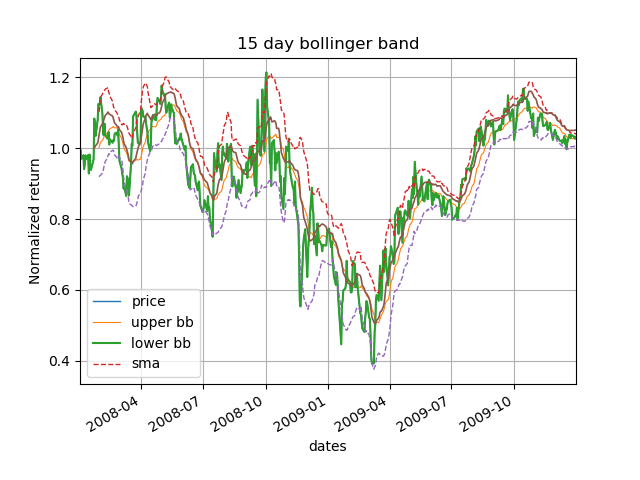
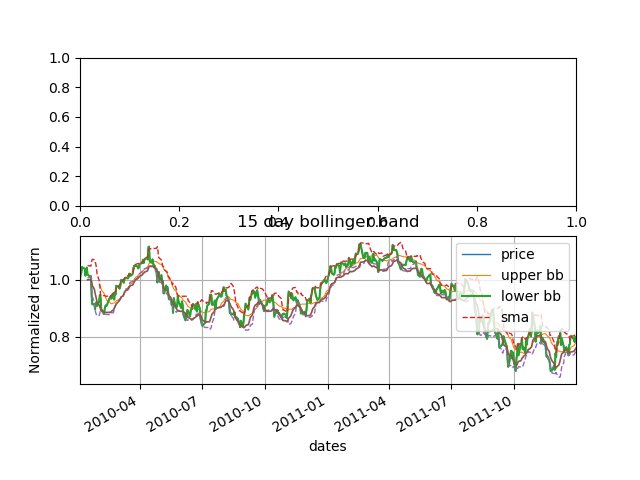
manual strategy seems to be getting alright performance

diff --git a/strategy_evaluation/ManualStrategy.py b/strategy_evaluation/ManualStrategy.py
@@ -11,7 +11,7 @@ class ManualStrategy(object):
    def testPolicy(self, symbol, sd,ed,sv):
       dates = pd.date_range(sd, ed)
       trades = ut.get_data([symbol], dates)
-      
+
       # forward fill and backfill data
       trades.fillna(method='ffill', inplace=True)
       trades.fillna(method='bfill', inplace=True)
@@ -19,42 +19,52 @@ class ManualStrategy(object):
       # only keep data for symbols in our portfolio
       trades.drop(columns=["SPY"], inplace=True)
       prices = trades.copy()
-      # might use this trades df later
-      #trades[:] = 0.0
-      #trades.iloc[0][0] = 1000
       df_indicators = getIndicators(prices, sd, ed)
-      df_buy = pd.DataFrame(index=df_indicators.index)
-      df_sell = df_buy.copy()
-      # set up buy signals
-      df_buy['sma'] = np.where(df_indicators['sma'] < df_indicators['price'],1,0)
-      df_buy['bb'] = np.where(df_indicators['price'] <= df_indicators['lower band'],1,0)
-      df_buy['macd'] = np.where(df_indicators['macd'] > df_indicators['macd_signal'],1,0)
-      df_buy['momentum'] = np.where(df_indicators['momentum'] > 0,1,0)
-      # set up sell signals
-      df_sell['sma'] = np.where(df_indicators['sma'] > df_indicators['price'],1,0) 
-      df_sell['bb'] = np.where(df_indicators['price'] >= df_indicators['upper band'],1,0)
-      df_sell['macd'] = np.where(df_indicators['macd'] < df_indicators['macd_signal'],1,0)
-      df_sell['momentum'] = np.where(df_indicators['momentum'] < 0,1,0)
-      # after getting indicators we have to standardize and normalize them
+      df_indicators['macd_diff'] = df_indicators['macd'] - df_indicators['macd_signal']
+      df_indicators['macd_diff_shift'] = df_indicators['macd_diff'].shift(1) # get crossover
+      df_signals = pd.DataFrame(index=df_indicators.index)
+      df_signals['bbp'] = [1 if x <= -0.03 else -1 if x >= 1.03 else 0 for x in df_indicators['bbp']]
+      df_signals['sma_ratio'] = [1 if x <= 0.955 else -1 if x >= 1.055 else 0 for x in df_indicators['price_sma_ratio']]
+      df_signals['macd'] = 0
+
+      for index,row in df_indicators.iterrows():
+         if row['macd_diff'] > 0.0 and row['macd_diff_shift'] < 0.0:
+            df_signals.at[index,'macd'] = 1
+         elif row['macd_diff'] < 0.0 and row['macd_diff_shift'] > 0.0:
+            df_signals.at[index,'macd'] = -1
+
       df_trades = pd.DataFrame(index=df_indicators.index)
       df_trades[trades.columns[0]] = 0
       holding = 0
       for i in df_trades.index:
          if holding == 0:
-            if df_buy.ix[i,'bb'] == 1 and  df_buy.ix[i,'momentum'] > 0 or  df_buy.ix[i,'macd'] == 1:
-               print('here')
+            if (df_signals.ix[i,'bbp'] > 0) | (df_signals.ix[i,'macd'] > 0) | (df_signals.ix[i,'sma_ratio'] > 0) :
                df_trades.ix[i,0] = 1000
                holding = 1000
-            elif df_sell.ix[i,'bb'] == 1 and  df_sell.ix[i,'momentum'] > 0 or  df_sell.ix[i,'macd'] == 1:
+            elif (df_signals.ix[i,'bbp'] < 0) | (df_signals.ix[i,'macd'] < 0) | (df_signals.ix[i,'sma_ratio'] < 0):
                df_trades.ix[i,0] = -1000
                holding = -1000
          elif holding == 1000:
-            if df_sell.ix[i,'bb'] == 1 and  df_sell.ix[i,'momentum'] > 0 or  df_sell.ix[i,'macd'] == 1:
+            if (df_signals.ix[i,'bbp'] < 0) | ((df_signals.ix[i,'macd'] < 0) | (df_signals.ix[i,'sma_ratio'] < 0)):
                df_trades.ix[i,0] = -2000
                holding = -1000
          elif holding == -1000:
-            if df_buy.ix[i,'bb'] == 1 and  df_buy.ix[i,'momentum'] > 0 or  df_buy.ix[i,'macd'] == 1:
+            if (df_signals.ix[i,'bbp'] > 0) | ((df_signals.ix[i,'macd'] > 0) | (df_signals.ix[i,'sma_ratio'] > 0)):
                df_trades.ix[i,0] = 2000
                holding = 1000
-
       return df_trades
+
+   def benchmark(self, symbol="JPM", sd=dt.datetime(2008,1,1), ed=dt.datetime(2009,12,31), sv=100000):
+      # Read in adjusted closing prices for given symbols, date range
+      dates = pd.date_range(sd, ed)
+      trades = ut.get_data([symbol], dates)
+      # forward fill and backfill data
+      trades.fillna(method='ffill', inplace=True)
+      trades.fillna(method='bfill', inplace=True)
+      # only keep data for symbols in our portfolio
+      trades.drop(columns=["SPY"], inplace=True)
+      prices = trades.copy()
+      trades[:] = 0.0
+      # benchmark only has 1000 shares held long
+      trades.iloc[0][0] = 1000
+      return trades

diff --git a/strategy_evaluation/testproject.py b/strategy_evaluation/testproject.py
@@ -83,10 +83,42 @@ if __name__ == "__main__":
    ms = ManualStrategy()
    start_date = dt.datetime(2008, 1, 1)
    end_date = dt.datetime(2009,12,31)
+   
    manual_strategy_trades = ms.testPolicy(symbol = "JPM", sd=start_date , ed=end_date , sv = 100000)
+   benchmark_in_sample_manual = ms.benchmark(symbol = "JPM", sd=start_date , ed=end_date , sv = 100000)
    portVals = compute_portvals(manual_strategy_trades, start_val=100000)
+   benchmark_in_sample_portvals = compute_portvals(benchmark_in_sample_manual, start_val=100000)
+   
    # get data and print it for optimal trades and benchmark trades
    cum_ret, avg_daily_ret, std_daily_ret, sharpe_ratio = calculate_stats(portVals.to_numpy())
+   print('******** in sample manual strategy ************')
    printData(sharpe_ratio, cum_ret, std_daily_ret, avg_daily_ret, portVals)
+   print('***********************************************')
    print()
+
+   cum_ret, avg_daily_ret, std_daily_ret, sharpe_ratio = calculate_stats(benchmark_in_sample_portvals.to_numpy())
+   print('******** in sample benchmark ************')
+   printData(sharpe_ratio, cum_ret, std_daily_ret, avg_daily_ret, benchmark_in_sample_portvals)
+   print('***********************************************')
+   print()
+
+   # Out of sample: January 1, 2010 to December 31, 2011
+   start_date = dt.datetime(2010, 1, 1)
+   end_date = dt.datetime(2011,12,31)
+   manual_strategy_trades = ms.testPolicy(symbol = "JPM", sd=start_date , ed=end_date , sv = 100000)
+   benchmark_in_sample_manual = ms.benchmark(symbol = "JPM", sd=start_date , ed=end_date , sv = 100000)
+   portVals = compute_portvals(manual_strategy_trades, start_val=100000)
+   benchmark_in_sample_portvals = compute_portvals(benchmark_in_sample_manual, start_val=100000)
+   cum_ret, avg_daily_ret, std_daily_ret, sharpe_ratio = calculate_stats(portVals.to_numpy())
+   print('******** Out-sample manual strategy ************')
+   printData(sharpe_ratio, cum_ret, std_daily_ret, avg_daily_ret, portVals)
+   print('***********************************************')
+   print()
+
+   cum_ret, avg_daily_ret, std_daily_ret, sharpe_ratio = calculate_stats(benchmark_in_sample_portvals.to_numpy())
+   print('******** out-sample benchmark ************')
+   printData(sharpe_ratio, cum_ret, std_daily_ret, avg_daily_ret, benchmark_in_sample_portvals)
+   print('***********************************************')
+   print()
+
    pdb.set_trace()

diff --git a/strategy_evaluation/indicators.py b/strategy_evaluation/indicators.py
@@ -55,12 +55,13 @@ def getSma(prices, window):
    return sma, ratio
 
 def getBollingerBand(prices):
-   sma = prices.rolling(15).mean()
-   std = prices.rolling(window=20).std()
+   sma = prices.rolling(10).mean()
+   std = prices.rolling(window=10).std()
    upper_band = sma + (1.5 * std)
    lower_band = sma - (1.5 * std)
-   sma = sma/sma.iloc[14]
-   return upper_band, lower_band, sma
+   sma = sma/sma.iloc[9]
+   bbi = (prices-lower_band)/(upper_band-lower_band)
+   return upper_band, lower_band, sma, bbi
 
 
 # get indicators will return Bollinger bands, price/SMA crossover, RSI
@@ -74,9 +75,9 @@ def getIndicators(prices, start_date, end_date):
    df_indicators['price'] = normed_prices
    
    # 1. get sma and sma/ratio
-   sma,_ = getSma(prices, 20)
+   sma,smaRatio = getSma(prices, 20)
    df_indicators['sma'] = sma
-   #df_indicators['price/sma'] = smaRatio
+   df_indicators['price_sma_ratio'] = smaRatio
    # plt.clf()
    df_indicators['price'].plot(grid=True, linewidth= 1)
    df_indicators['sma'].plot(grid=True, linewidth= 0.8)
@@ -88,10 +89,12 @@ def getIndicators(prices, start_date, end_date):
    # plt.clf()
    
    # 2. bollinger bands
-   upper_bb, lower_bb, sma = getBollingerBand(normed_prices)
+   upper_bb, lower_bb, sma, bbp = getBollingerBand(normed_prices)
    df_indicators['sma'] = sma
    df_indicators['upper band'] = upper_bb
    df_indicators['lower band'] = lower_bb
+   # much easier to discretize bbp than just bb
+   df_indicators['bbp'] = bbp
    df_indicators['price'].plot(grid=True,label="price").plot(linewidth=1.3)
    df_indicators['upper band'].plot(grid=True,label="upper bb", linestyle='--', linewidth=1)
    df_indicators['lower band'].plot(grid=True,label="lower bb", linestyle='--', linewidth=1)
@@ -152,6 +155,7 @@ def getIndicators(prices, start_date, end_date):
    df_indicators['26 day ema'] = exp2
    df_indicators['macd'] = macd
    df_indicators['macd_signal'] = signal
+   #df_indicators['macd_div_signal'] = df_indicators['macd']/df_indicators['macd_signal']
    # df_indicators['price'].plot(grid=True,ax=axes[0],label='price', linewidth=1 )
    # df_indicators['26 day ema'].plot(grid=True,ax=axes[0],label='26 day ema', linewidth=1)
    # ax = df_indicators['12 day ema'].plot(grid=True,ax=axes[0],label='12 day ema', linewidth=1)
